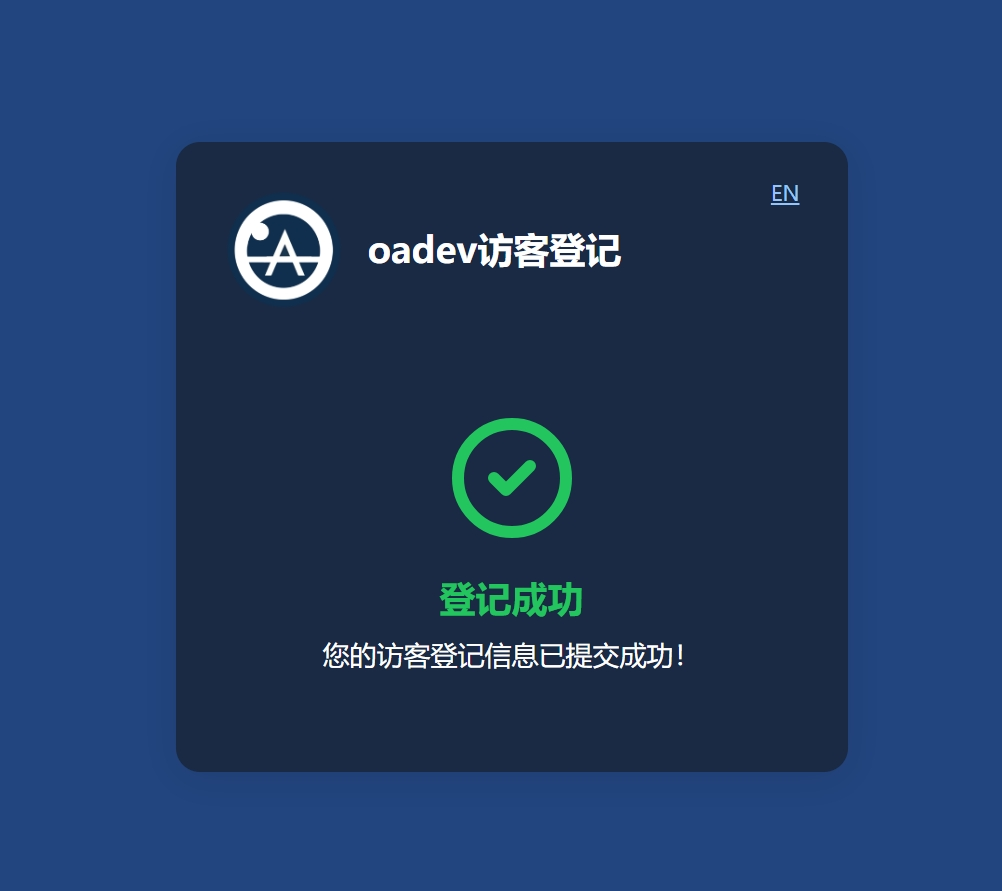
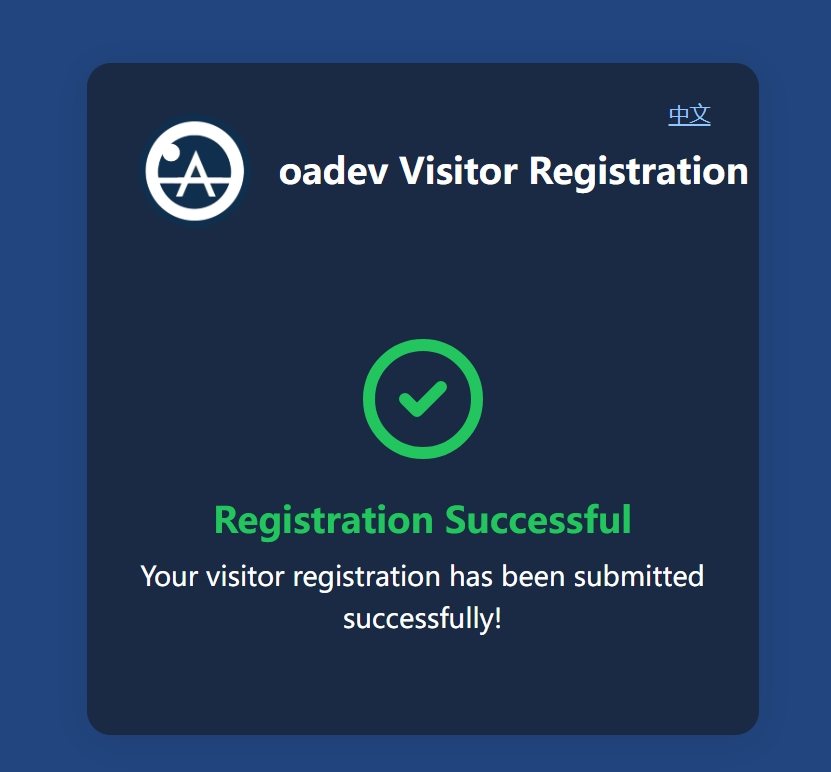
更新readme

Changed region(s): [[0.0903, 0.0622, 0.9326, 0.9637], [0.4212, 0.4352, 0.6017, 0.6218]]

diff --git a/README.md b/README.md
@@ -43,7 +43,10 @@
 #### 界面预览
 
 ##### 登记首页
-![登记首页](images/登记首页_zh.png)
+中文版本 | English Version
+:-------------------------:|:-------------------------:
+<img src="images/登记首页_zh.png" width="500"> | <img src="images/登记首页_en.png" width="500">
+
 
 ##### 访客须知
 中文版本 | English Version
